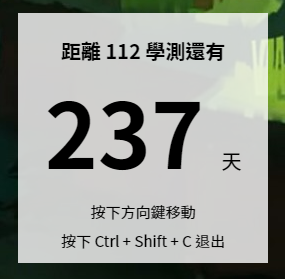
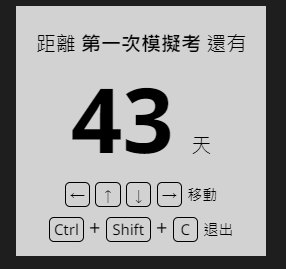
Feature: able to move two direction simutaneously

diff --git a/main.js b/main.js
@@ -1,50 +1,93 @@
 var countdowns = require('./config/countdowns.json');
-var index = 0;
+let index = 0;
+const speed = 5;
+let pressed = [false, false, false, false];
 
-var calculateCD = function () {
-    var nameDisplay = document.getElementsByClassName('name');
+let calculateCD = function () {
+    let nameDisplay = document.getElementsByClassName('name');
     index++;
     index %= countdowns.length * 5;
     [].forEach.call(nameDisplay, function (element) {
         element.textContent = countdowns[Math.floor(index / 5)].name;
     });
-    
-    var timeDisplay = document.getElementsByClassName('cd');
+
+    let timeDisplay = document.getElementsByClassName('cd');
     [].forEach.call(timeDisplay, function (element) {
         var epoch = Math.floor((new Date()).getTime() / 1000)
         element.textContent = Math.ceil((countdowns[Math.floor(index / 5)].time - epoch) / (24 * 60 * 60));
     });
 }
 
+let move = function () {
+    let movementX = pressed[2] * -speed + pressed[3] * speed,
+        movementY = pressed[1] * -speed + pressed[0] * speed;
+    window.moveTo(window.screenX + movementX, window.screenY + movementY);
+}
+
+addEventListener('blur', event => { 
+    pressed = [false, false, false, false];
+});
+
 window.onload = function () {
     window.moveTo(window.screen.availWidth - 250, window.screen.availHeight - 250);
-    calculateCD();
     index = 0;
-    var t = setInterval(calculateCD, 1000);
+    calculateCD();
+    var timeUpdater = setInterval(calculateCD, 1000);
+    var positionUpdater = setInterval(move, 20);
 };
 
 document.addEventListener('keydown', (event) => {
+
     if (event.defaultPrevented)
         return;
+    event.preventDefault();
+
     if (event.ctrlKey && event.shiftKey && (event.key === "C" || event.key === "c")) {
         window.close();
-    } else {
-        switch (event.key) {
-            case "ArrowDown":
-                window.moveTo(window.screenX, window.screenY + 40);
-                break;
-            case "ArrowUp":
-                window.moveTo(window.screenX, window.screenY - 40);
-                break;
-            case "ArrowLeft":
-                window.moveTo(window.screenX - 40, window.screenY);
-                break;
-            case "ArrowRight":
-                window.moveTo(window.screenX + 40, window.screenY);
-                break;
-            default:
-                return;
-        }
+        return;
     }
+    switch (event.key) {
+        case "ArrowDown":
+            pressed[0] = true;
+            break;
+        case "ArrowUp":
+            pressed[1] = true;
+            break;
+        case "ArrowLeft":
+            pressed[2] = true;
+            break;
+        case "ArrowRight":
+            pressed[3] = true;
+            break;
+        default:
+            return;
+    }
+}, true);
+
+document.addEventListener('keyup', (event) => {
+
+    if (event.defaultPrevented)
+        return;
     event.preventDefault();
+
+    if (event.ctrlKey && event.shiftKey && (event.key === "C" || event.key === "c")) {
+        window.close();
+        return;
+    }
+    switch (event.key) {
+        case "ArrowDown":
+            pressed[0] = false;
+            break;
+        case "ArrowUp":
+            pressed[1] = false;
+            break;
+        case "ArrowLeft":
+            pressed[2] = false;
+            break;
+        case "ArrowRight":
+            pressed[3] = false;
+            break;
+        default:
+            return;
+    }
 }, true);

diff --git a/css/style.css b/css/style.css
@@ -43,7 +43,7 @@ html, body {
     border-radius: 4px;
     border: 1px solid #000;
     width: var(--width);
-    padding: 1px 1px;
+    padding: 0 1px 2px;
 }
 
 .small {

diff --git a/README.md b/README.md
@@ -12,3 +12,4 @@ A simple GSAT-countdown gadget.
 You can change the cowntdowns by editing `confing/countdowns.json`.  
 Each item in the list should coutain `name` indicating its name and `time` indicating the event's UNIX-time (converted to your time zone).  
 It is set to change event every `5` second.  
+After the change, it **may need a restart**.
